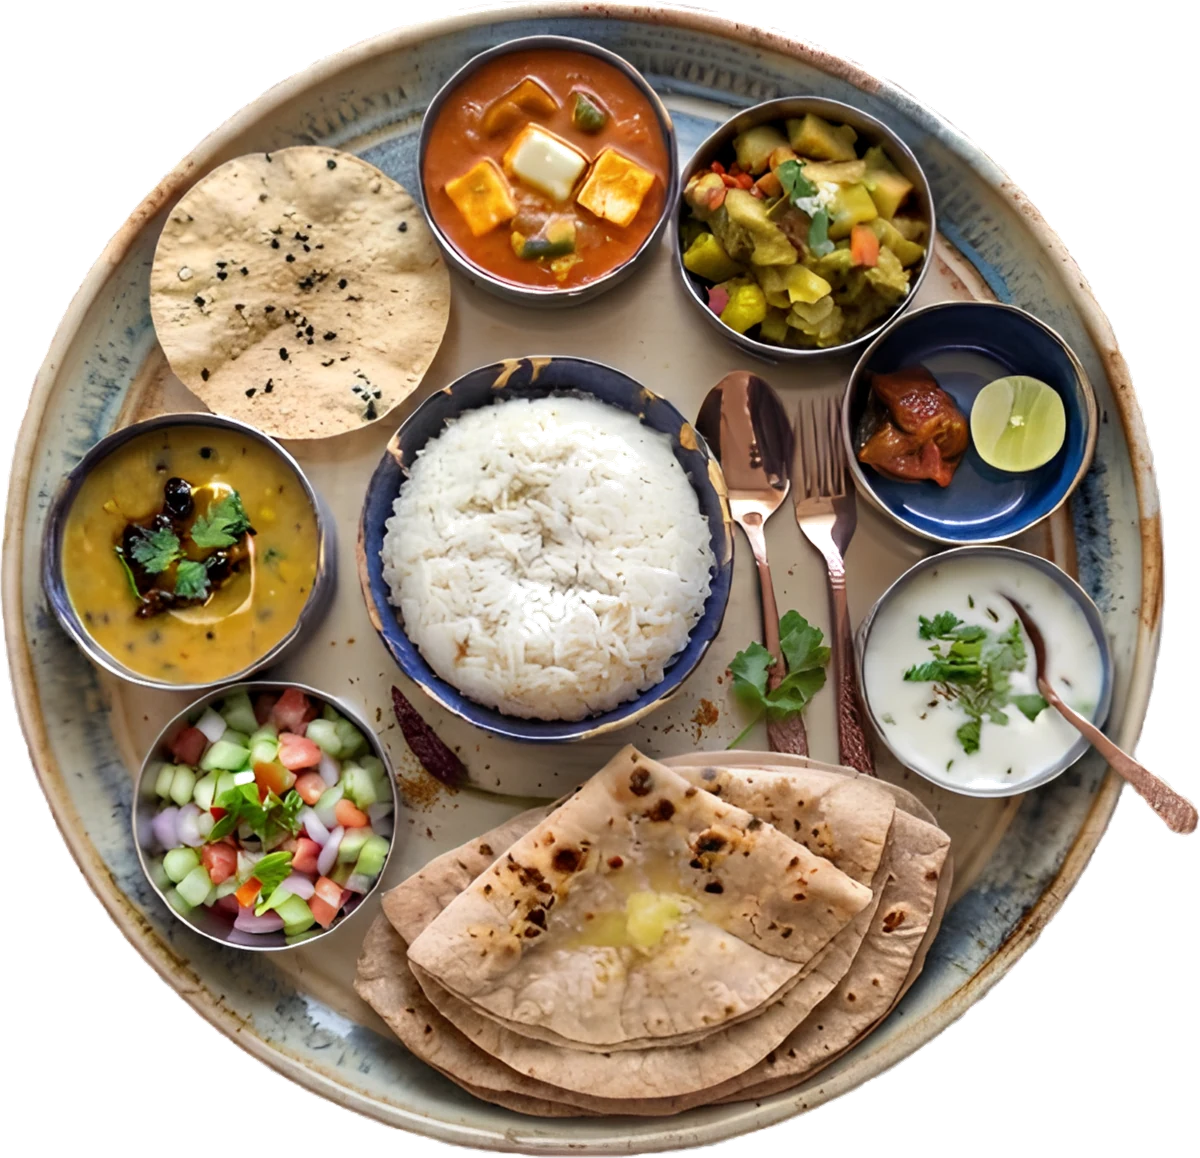
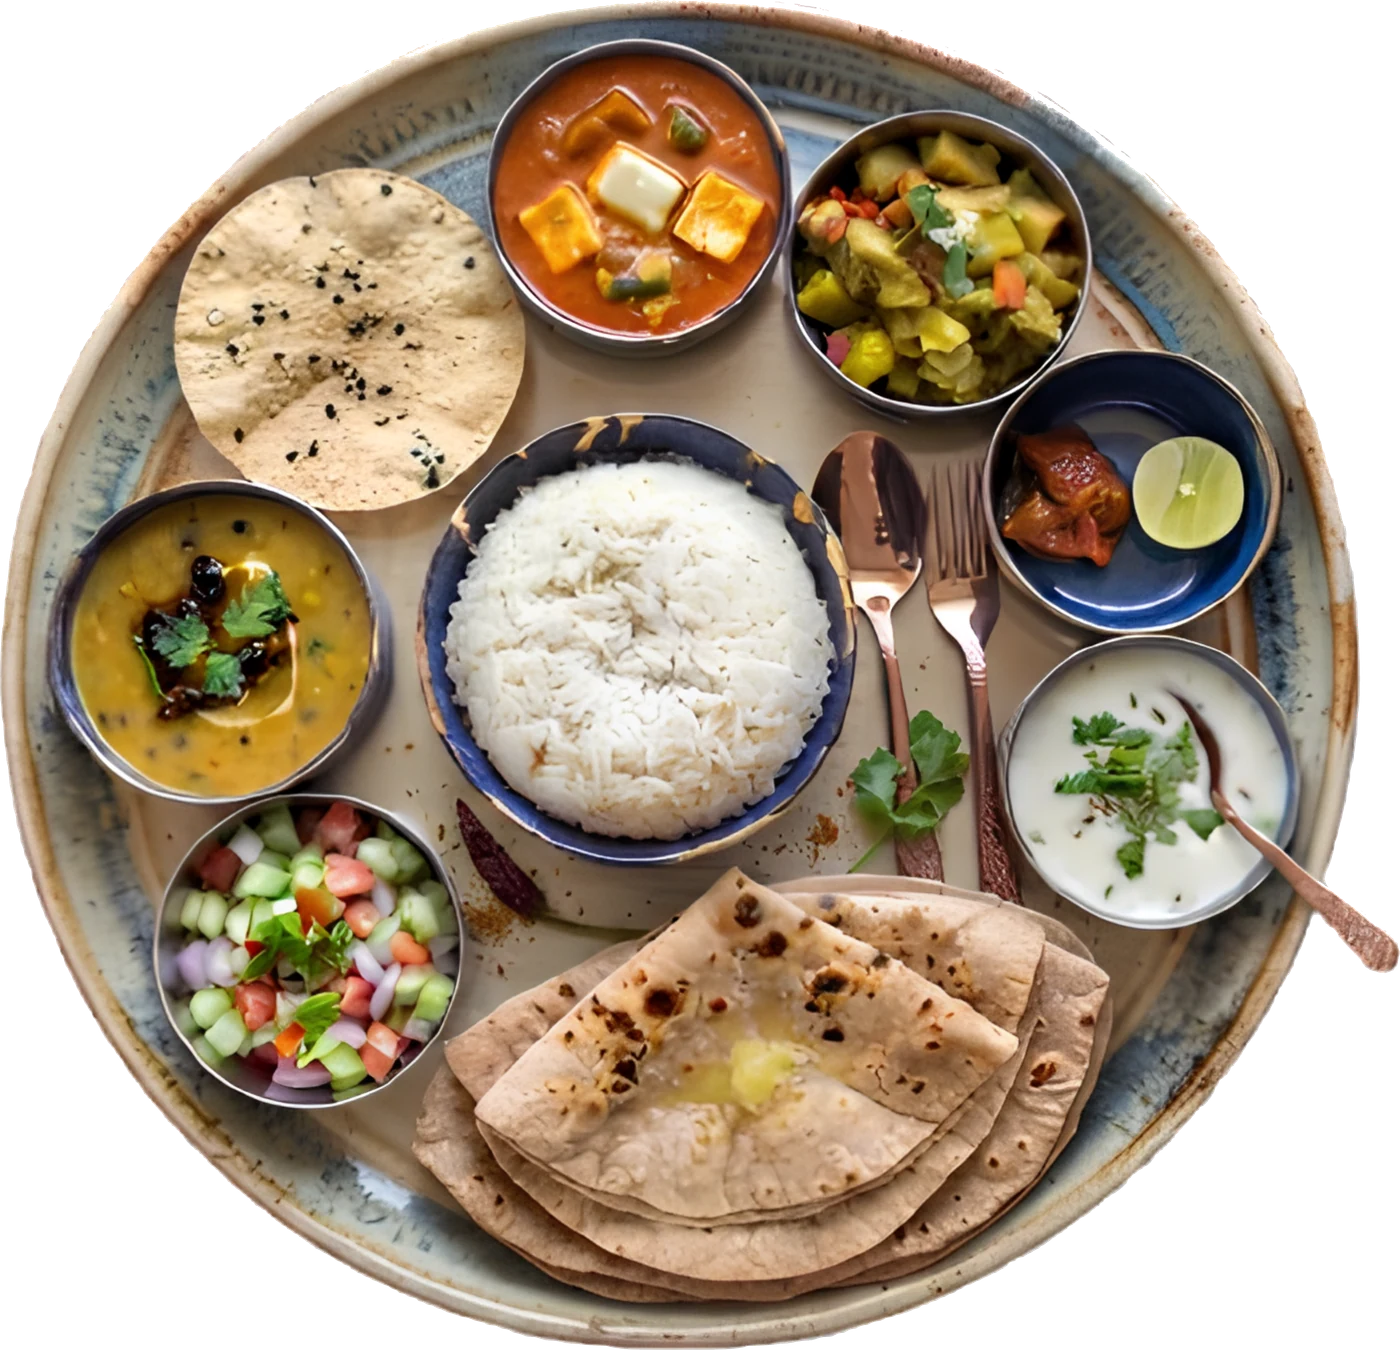
Close the holes in the gallery grid; swap in the hand-matted thali
Gallery
Two separate faults were both showing as empty cells.

- A tall tile claimed two rows but sized itself with aspect-[3/4], which
  is 1.33 times its width against a span worth 2 rows plus a gap. The
  leftover strip under each tall tile was the gap. Tall tiles now take
  their height from the track instead of from a ratio.
- The spans applied on phones too, where the grid is two columns and the
  tile is a square - the same mismatch in miniature, and the reason the
  gaps were worse on a narrow screen. Spans are now sm and up only;
  below that it is twelve plain squares in two columns.
- Three tall tiles among twelve cover fifteen cells, and fifteen does
  not fill four columns - one cell in the last row was always going to
  be empty whatever the packing. Four tall tiles cover sixteen, which is
  exactly four full rows, and spacing them every third tile is what
  actually tiles it rather than merely totalling correctly.

Measured at 1440: four 264px columns, four 264px rows, every cell
covered, and each tall tile's button now matches its 544px track.

Thali
- Replaced the cutout with the supplied hand-matted PNG. It already
  carries a real alpha channel, so it takes the pre-keyed path. That
  matters more on this shot than most: rice, raita, papad and the
  plate's cream rim all sit near white, and every version we keyed
  ourselves risked eating one of them. The rim is visibly cleaner.
- 1400x1350 after trim, and the Image props say so.

diff --git a/src/components/home/Gallery.tsx b/src/components/home/Gallery.tsx
@@ -99,16 +99,31 @@ export function Gallery() {
           {SHOTS.map((slug, i) => {
             const img = dishImage(slug);
             if (!img?.dish) return null;
-            // Three of the twelve get a taller aspect, so the grid has a
-            // rhythm instead of reading as a contact sheet.
-            const tall = i === 0 || i === 5 || i === 8;
+            // Four of the twelve run double height, so the grid has a rhythm
+            // instead of reading as a contact sheet.
+            //
+            // The indices are not decorative. Twelve tiles with four of them
+            // spanning two rows cover sixteen cells — exactly four full rows
+            // of four — and 0/3/6/9 is the spacing that actually tiles it:
+            // each pair of tall tiles bookends a row, and the short ones fill
+            // between. Any other count or spacing leaves a hole in the last
+            // row, which is what was showing as a gap in the grid.
+            const tall = i % 3 === 0;
             return (
-              <RevealItem key={slug} className={tall ? "row-span-2" : undefined}>
+              <RevealItem key={slug} className={tall ? "sm:row-span-2" : undefined}>
                 <button
                   onClick={() => setOpen(i)}
                   aria-label={`View ${CAPTIONS[slug]} larger`}
                   className={`group relative block w-full overflow-hidden ${
-                    tall ? "aspect-square sm:aspect-[3/4]" : "aspect-square"
+                    // A tall tile must fill the two rows it claims, so it takes
+                    // its height from the track rather than from an aspect
+                    // ratio. Fixing it at 3/4 left it short of the span, and
+                    // the leftover strip was the second gap.
+                    //
+                    // Below sm the grid is two plain columns with no spans at
+                    // all — a square that spans two rows on a phone is the
+                    // same bug in miniature.
+                    tall ? "aspect-square sm:aspect-auto sm:h-full" : "aspect-square"
                   }`}
                 >
                   <Image

diff --git a/src/components/home/SignatureBand.tsx b/src/components/home/SignatureBand.tsx
@@ -159,8 +159,8 @@ export function SignatureBand() {
                 <Image
                   src="/menu/cutout/thali-plate.webp"
                   alt="A thali — dal, paneer curry, sabzi, steamed rice, roti, papad, salad, raita, pickle and lime"
-                  width={1200}
-                  height={1158}
+                  width={1400}
+                  height={1350}
                   sizes="(max-width: 1024px) 80vw, 40vw"
                   className="h-auto w-full drop-shadow-[0_28px_50px_rgba(0,0,0,0.55)]"
                 />
